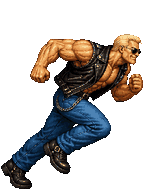
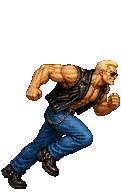
CHAD stops growing when he supers
process_chad.sh scales each family so one chosen frame fills a fraction of the
192 px canvas, which is right when that frame is standing upright. RAGNAROK has
no standing frame at all - every pose leans into the spin - so calibrating one
of them to a standing figure's .94 made the whole family 20% too big. The same
mistake is already commented on combo_power_b two calls above it.

Measured on the crown of his skull, which is the one landmark that is the same
size in every pose and is stable to a pixel: idle 22.8, parry 23.6,
ragnarok_ground 24.1, and meteor_lariat 27.5 against them. .94 x 23.0/27.5 =
.786, and it now measures 23.0. Drawn height cannot be the landmark here for
exactly the reason the pose cannot: a leaning man is shorter.

diff --git a/CLAUDE.md b/CLAUDE.md
@@ -418,6 +418,19 @@ without keeping those zones puts every fixture on the wrong bit of wall. The pla
 device width must be exactly `2 × HUB_WIDTH` and `floorW` must equal the floor plate's
 logical width, or the wall wraps or the floor gaps.
 
+**A character family is calibrated by a STANDING pose, and if it has none, calibrate it by
+the head.** `process_chad.sh` scales each family so one chosen frame fills `--fill` of the
+192 px canvas, which is right when that frame is standing upright. RAGNAROK has no standing
+frame at all - every pose leans into the spin - so calibrating one of them to a standing
+figure's .94 made the whole family 20% too big, and CHAD visibly grew when he supered. The
+same mistake is already commented on `combo_power_b` above it.
+
+Measure it on the CROWN OF HIS SKULL: the top ten rows of the connected skin/blond component
+that holds the topmost skin pixel. That is the one landmark the same size in every pose, and
+it is stable to a pixel - idle 22.8, parry 23.6, ragnarok_ground 24.1, and meteor_lariat was
+27.5 against those. `.94 x 23.0/27.5 = .786` fixed it. Drawn height cannot be used here for
+the same reason the pose cannot: a leaning man is shorter.
+
 **The tiger ignores the bag.** He used to lift his head every time it was hit, which sounds
 right and is wrong: the bag is the one thing in the room CHAD does over and over, so the one
 animal in the room reacted to almost every input. He still reacts to a big combo, to a fixture
